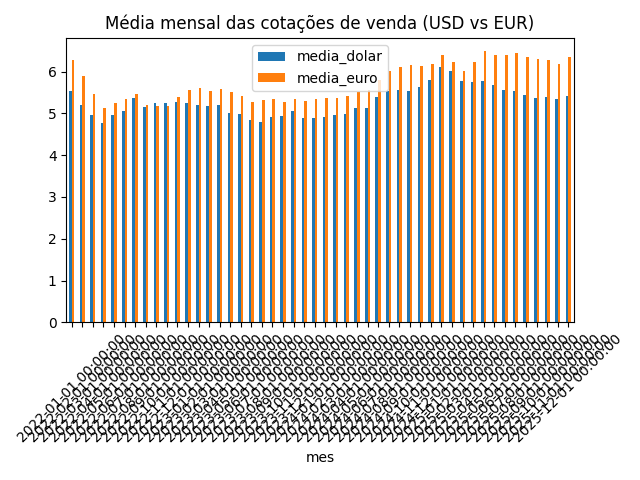
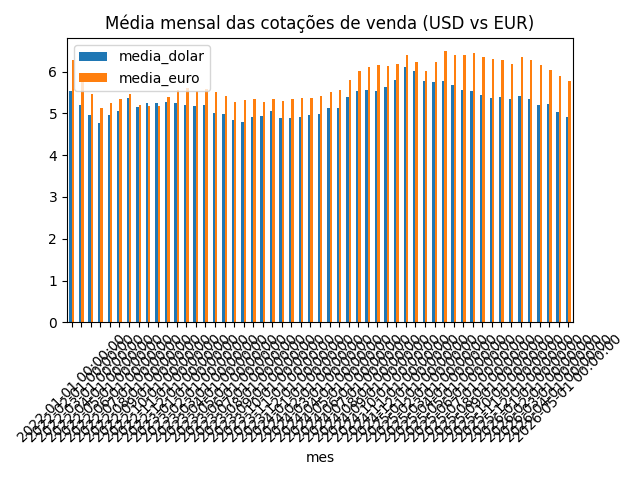
collect updated URL from Excel

diff --git a/include/scripts/ingestao_euro.py b/include/scripts/ingestao_euro.py
@@ -3,7 +3,7 @@ import requests
 import sqlalchemy as sa
 from datetime import datetime
 from sqlalchemy.dialects.postgresql import insert
-
+import pandas as pd
 
 # Usa a mesma string de conexão definida no docker-compose
 CONN_STR = (
@@ -28,9 +28,11 @@ metadata.create_all(engine)  # cria a tabela se não existir
 
 def ingest_euro_data():
 
-    url = (
-        "https://olinda.bcb.gov.br/olinda/servico/PTAX/versao/v1/odata/CotacaoMoedaPeriodo(moeda=@moeda,dataInicial=@dataInicial,dataFinalCotacao=@dataFinalCotacao)?@moeda='EUR'&@dataInicial='01-01-2022'&@dataFinalCotacao='01-01-2026'&$top=1000&$filter=tipoBoletim%20eq%20'Fechamento'&$orderby=dataHoraCotacao&$format=json&$select=cotacaoCompra,cotacaoVenda,dataHoraCotacao,tipoBoletim"
-    )
+    # Carrega o Excel
+    df = pd.read_excel("/opt/airflow/excel_analyses/Advanced_Imported_Analyses.xlsm", sheet_name="Main_Macros", header=None, engine="openpyxl")
+    
+    # Supondo que a coluna se chame 'url_API'
+    url = df.iloc[24, 2]
 
     response = requests.get(url).json()
 

diff --git a/include/scripts/ingestao_dol.py b/include/scripts/ingestao_dol.py
@@ -3,6 +3,7 @@ import requests
 import sqlalchemy as sa
 from datetime import datetime
 from sqlalchemy.dialects.postgresql import insert
+import pandas as pd
 
 
 # Usa a mesma string de conexão definida no docker-compose
@@ -28,9 +29,11 @@ metadata.create_all(engine)
 
 def ingest_data():
 
-    url = (
-        "https://olinda.bcb.gov.br/olinda/servico/PTAX/versao/v1/odata/CotacaoMoedaPeriodo(moeda=@moeda,dataInicial=@dataInicial,dataFinalCotacao=@dataFinalCotacao)?@moeda='USD'&@dataInicial='01-01-2022'&@dataFinalCotacao='01-01-2026'&$top=1000&$filter=tipoBoletim%20eq%20'Fechamento'&$orderby=dataHoraCotacao&$format=json&$select=cotacaoCompra,cotacaoVenda,dataHoraCotacao,tipoBoletim"
-    )
+    df = pd.read_excel("/opt/airflow/excel_analyses/Advanced_Imported_Analyses.xlsm", sheet_name="Main_Macros", header=None, engine="openpyxl")
+    
+    # Supondo que a coluna se chame 'url_API'
+    url = df.iloc[30, 2]
+
     response = requests.get(url).json()
 
     rows = []

diff --git a/dags/monitoramento_dolar.py b/dags/monitoramento_dolar.py
@@ -18,7 +18,7 @@ with DAG(
 ) as dag:
     
     with TaskGroup("pipeline_dolar") as pipeline_dolar:
-        t1 = PythonOperator(task_id="ingestao_dolar", python_callable = ingest_data)
+        t1 = PythonOperator(task_id="ingestao_dol", python_callable = ingest_data)
         t3 = PythonOperator(task_id="processamento_dol", python_callable=process_dol_data)
         t1 >> t3
 